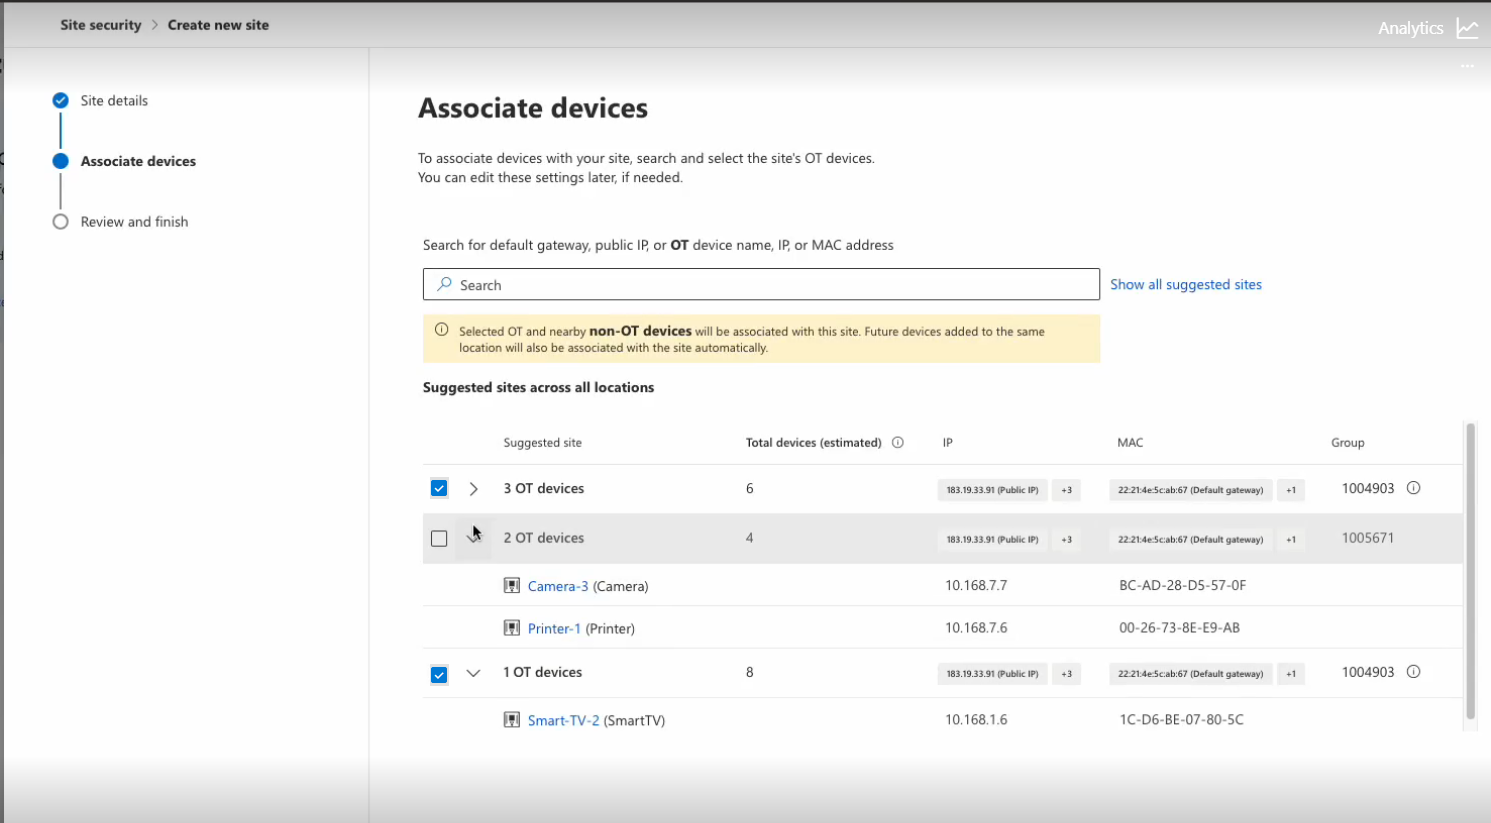
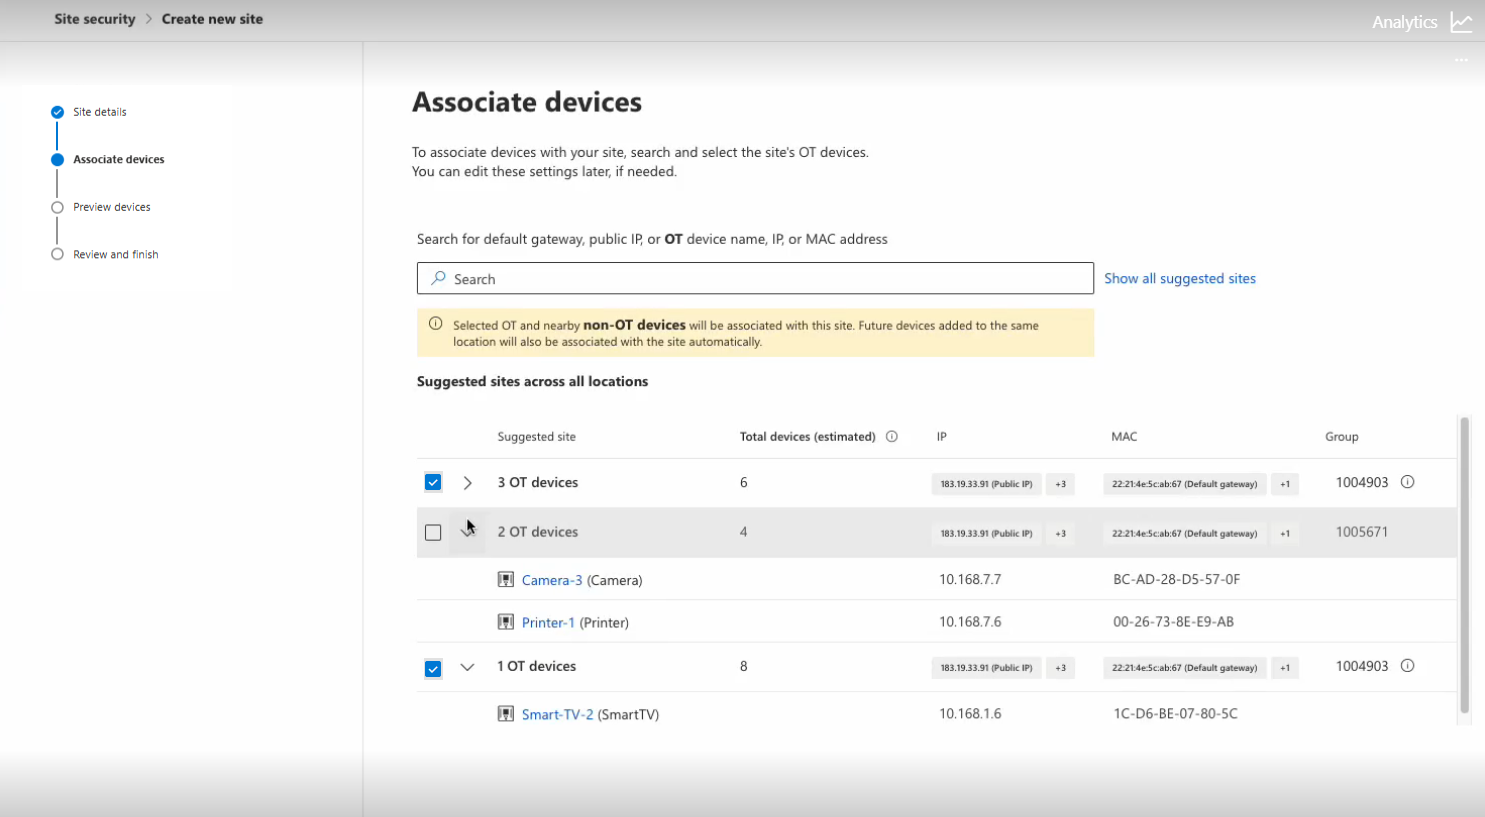
new associate device process

diff --git a/defender-for-iot/set-up-sites.md b/defender-for-iot/set-up-sites.md
@@ -39,7 +39,7 @@ To set up a site and associate the OT devices in your network to it:
     - **Site description**: Describe the purpose of the site, what activities occur there, the types and number of devices used, and other important information about the site.
     - **Owners**: The contact emails of any users administering the site who must be contacted when problems occur.
 
-    :::image type="content" source="media/set-up-sites/site-security-set-up-details-new.png" alt-text="Screenshot showing the details for creating a new site in the Site security page of Microsoft Defender for IoT in the Microsoft Defender portal.":::
+    :::image type="content" source="media/set-up-sites/site-security-set-up-details.png" alt-text="Screenshot showing the details for creating a new site in the Site security page of Microsoft Defender for IoT in the Microsoft Defender portal.":::
 
 1. When completed, select **Next** to associate devices to the site.
 
@@ -70,6 +70,15 @@ In this stage, you configure Defender for IoT to associate OT devices to the sit
 1. Select **Next** to review the site details.
 
 [!INCLUDE [defender-iot-site-association](includes/site-association.md)]
+
+## Preview devices
+
+A list of all devices that will be associated with this site appears. If you want to remove any of the devices from this list:
+
+1. Select the **Deselect devices from site** button. All of the devices will become accessible.
+1. Deselect the checkbox of the devices to be removed.
+    1. To reset the list, select **Discard all changes**.
+1. When you are finished, select **Next**, or **Skip** if you haven't made any changes.
 
 ## Review site details
 
